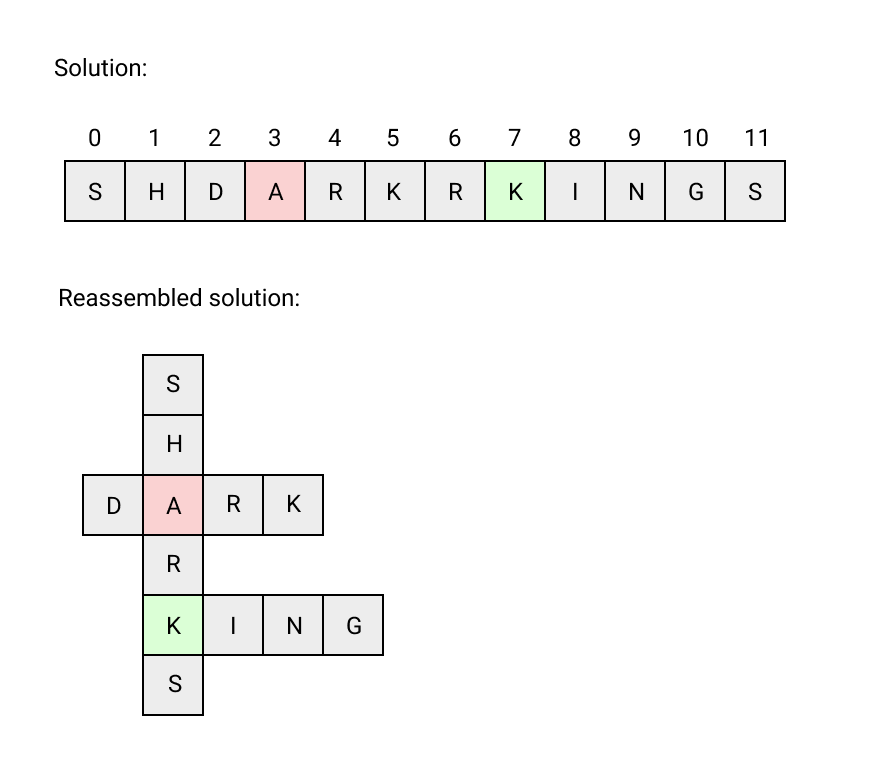
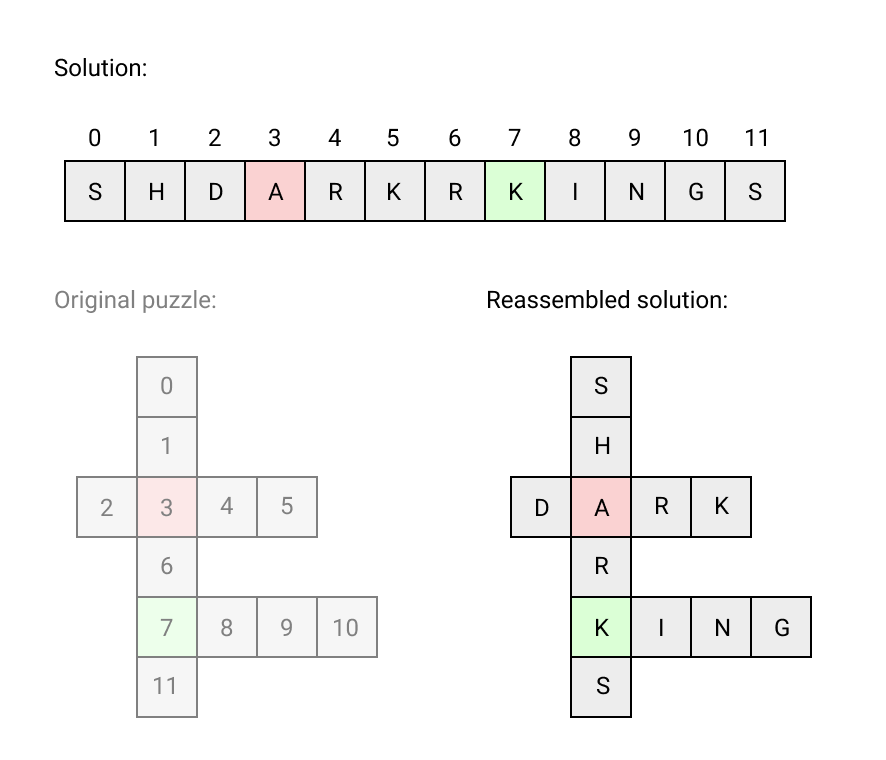
readme

diff --git a/README.md b/README.md
@@ -3,19 +3,23 @@ Crossword Composer
 
 Crossword Composer is a browser-based tool for making crossword puzzles. This codebase consists of two main pieces:
 
-- A generic word puzzle auto-filler, which finds a set of words that conform to a given shared-letter constraints. The auto-filler is written in Rust, and could be used as a standalone library. The auto-filler itself is not aware of the structure of the crossword. It is more akin to a SAT solver which takes a problem distilled down to its most basic representation: a list of constraints to be satisfied.
-- A browser-based UI which displays a blank crossword and allows the user to put blocks in place to shape the grid. The UI loads a version of the auto-filler compiled to WebAssembly to (try to) fill in the puzzle as the user types.
+- A word puzzle auto-filler, which finds a set of words that conform to a set of shared-letter constraints.
+- A browser-based UI, which allows interactive puzzle creation.
 
 Auto-filler
 -----------
 
-The auto-filler takes two inputs: a dictionary of possible words, and a set of constraints that the solution must satisfy. The constraints are provided as a list of lists, where each inner list represents a word and each entry in it identifies a letter assignment decision that the filler must make. Letters shared by multiple words are indicated by referencing the same letter assignment in the appropriate location.
+The auto-filler is written in Rust, and could be used as a standalone library. The auto-filler itself is not aware of the structure of crossword puzzles. It is more akin to a [SAT solver](https://en.wikipedia.org/wiki/Boolean_satisfiability_problem) which takes a problem distilled down to its most basic representation: a list of constraints to be satisfied.
 
-To better understand, here's one way that a simple crossword puzzle could be turned into an input representation for the solver.
+The constraints are provided as a list of lists of numbers. These numbers are identifiers of *slots*: individual letter assignments that the filler must make. Each list of slot identifiers is a *word constraint*: it indicates that the sequence of letters assigned to the slots it refers to (in the given order) **must** correspond to a word in the input dictionary.
+
+The second type of constraint are *letter constraints*. These constraints ensure that the each slot is assigned to exactly one letter. When the same slot is referenced from multiple word constraints, it means that those words share a letter in that position.
+
+If this all seems abstract, let's look at how this applies to a concrete problem. Here's a simple crossword puzzle along with an equivalent input representation. (The colored cells are just a visual aid, they are not part of the representation.)
 
 ![A diagram showing the input representation.](images/input_representation.png)
 
-Represented in code, the input representaiton looks like this:
+Put into code, the input representaiton looks like this:
 
     [
       [0, 1, 3, 6, 7, 11],
@@ -23,7 +27,7 @@ Represented in code, the input representaiton looks like this:
       [7, 8, 9, 10]
     ]
 
-A valid solution for this particular puzzle, as returned by the solver, could be:
+If we passed the solver these constraints along with a standard English dictionary, a solution it might return is:
 
     ['S', 'H', 'D', 'A', 'R', 'K', 'I', 'N', 'G', 'S']
 
@@ -31,17 +35,31 @@ The location of each letter corresponds to the numbers in the puzzle structure d
 
 ![An example output representation from the solver.](images/output_representation.png)
 
-Note that the actual numbers assigned doen't really matter for the purposes of the representation; e.g. if we swap 5 and 7 everywhere they appear we have an equally valid representation of the puzzle.
+*Note that the actual numbers assigned doen't really matter for the purposes of the representation. For example if we swap 5 and 7 everywhere they appear we have an equally valid representation of the puzzle.*
 
-The filler uses a standard backtracking approach: for each word that needs to be picked, it considers every possible word, subject to the constraints introduced by words already picked. Whenever it reaches a state where no more words exist that satisfy these constraints, it backtracks and reverses prior word selections.
+The filler uses a standard backtracking approach: for each word constraint, it arbitrarily picks a word from the dictionary that satisfies the slots already assigned. Whenever there are no words in the dictionary that work, it reverses its most recent word assignments until it gets back to a step where it has more available words to try. It then proceeds from there with a different (but again arbitrary) word choice.
 
-The filler attempts to speed up this process in two ways:
+The filler speeds up this process in two ways:
 
-1. It attempts to pick a good order to solve the words in. The basic idea is that when we are on a dead-end route, we want to know as soon as possible that no solution will work so that we can backtrack without wasting time. Note that once we know the order in which we will pick the words, we also know which letters (by position) will be known and which will be unknown by the time we need to fill that word. The heuristic for picking an order is a simple greedy algorithm: first we take the longest word, then we continually take the word with the highest number of letters that overlap with previously picked words (breaking ties by length, preferring the longest).
-2. For each step in the backtracking search, an in-memory index is created just for that step. The index provides a fast mapping between possible sets of the letters that will be *known* at a given stage to all of the sets of letters that are *unknown*. One way to think of these indexes is as a sort of permuted dictionary. If you have a regular dictionary, and you want to fill in the blanks in the word `sp___`, it's a fast operation. But if you want to fill in the word `_p__n`, it's slow -- you have to scan the whole dictionary! If you are planning to solve a lot of `_#__#` fill-in-the-blanks, as we are, it is worthwhile to create a whole new dictionary where you permute the words so that the known letters appear at the beginning (for example, in the case mentioned above, `spoon` becomes `pnsoo`). Luckly, once we have pre-determine our order, the blanks for each word *will* always be in the same spot for each word we are trying to solve for! So we create one of these indexes for each of them.
+1. It attempts to pick a good order to solve the word constraints in. The basic idea is that when we are on a dead-end route, we want to know as soon as possible that no solution will work so that we can backtrack without wasting time. Note that once we know the order in which we will solve the word constraints, we also know which letters (by position) will be known and which will be unknown by the time we solve it. The heuristic for picking an order is a simple greedy algorithm: first we take the longest word constraint, then we continually take the word constraint with the highest number of letters that overlap with previously picked word constraints (breaking ties by length, preferring the longest).
+2. For each word constraint, we create an in-memory index. This index provides a fast mapping *from* values of the slots that will be assigned by the time we visit that word constraint, *to* all possible values of the unassigned slots in the word constraint that result in a valid (in-dictionary) word. One way to think of these indexes is as a sort of permuted dictionary. If you have an alphabetically-sorted dictionary, and you want to fill in the blanks in the word `sp___`, it's a fast operation. But if you want to fill in the word `_p__n`, it's slow -- you have to scan the whole dictionary! If you are planning to solve a lot of `_#__#` fill-in-the-blanks, as we are, it is worthwhile to create a whole new dictionary where you permute the words so that the known letters appear at the beginning (e.g. `spoon` becomes `pnsoo`). Luckly, once we have pre-determine our order, the blanks for each word *will* always be in the same spot for any given word constraint! So we create one of these indexes for each word constraint.
 
 Once those tasks are completed, we begin backtracking. At this point, we can even throw away the dictionary we were given as input, since the indexes we built for each word contain all the vocabulary information we need.
 
 Browser UI
 ----------
 
+The browser UI is a JavaScript tool for designing crossword grids. It imports the solver using WebAssembly and uses it to fill the puzzle.
+
+The `Solver` class manages the interface between the UI and the auto-filler from the JavaScript side. Filling the crossword is computationally intensive, so we don't want to run it in the main JavaScript thread (which would lock up the UI and prevent modifying the grid while the solver is running). Instead, the `Solver` class manages a [Web Worker](https://developer.mozilla.org/en-US/docs/Web/API/Web_Workers_API/Using_web_workers) which runs the filler in another thread.
+
+When the filler is turned on, every subsequent edit to the grid causes the `Solver` to terminate the existing web worker (if one exists), spawn a new one, load the auto-filler as a WebAssembly module, and start filling the new grid. Unfortunately, terminating the entire web worker is the only way to interrupt that thread, so for every change to the grid we incur the overhead of spawning a new instance of the WebAssembly module. Fortunately, WebAssembly is purpose-built for this kind of fast start. In practice, the time to fill a puzzle is dominated by the backtracking process, so the cost of constantly starting new workers is negligible.
+
+The `Solver` class is also responsible for caching the web worker script, dictionary file, and WebAssembly module binary. Otherwise, network round-trips would need to be made for each of these every time the user changed the grid.
+
+See Also
+--------
+
+- [Qxw](https://www.quinapalus.com/qxw.html) and [Crux](https://www.quinapalus.com/crux.html) are open-source word game creation tools. Although my filler uses a different solving approach (I think?), the constraint specification approach I took was inspired by reading its documentation.
+- [Steven Morse](https://stmorse.github.io/journal/IP-Crossword-puzzles.html) has written about using integer programming to solve crosswords. Although I didn't take this approach, it was a helpful read.
+- [Phil](http://www.keiranking.com/phil/) ([GitHub repo](https://github.com/keiranking/Phil)) is a more fully-featured HTML crossword creator. Its creators also took the approach of running a filler in the browser with WebAssembly.
